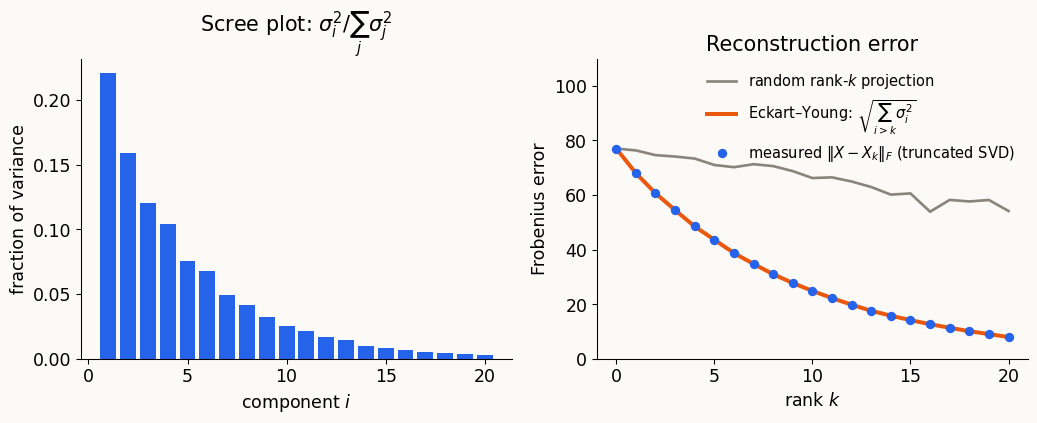
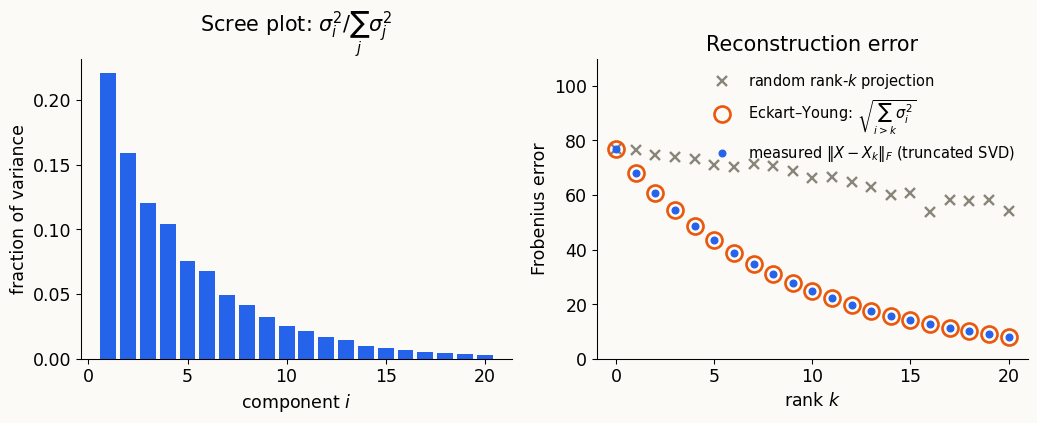
Remove Homework tab and page (no homework this offering)
Claude-Session: https://claude.ai/code/session_017t3ggjcAxN8CufDV5KXh5C

Changed region(s): [[0.5863, 0.3381, 0.9875, 0.8298], [0.6789, 0.2459, 0.7097, 0.3073], [0.6789, 0.1844, 0.7097, 0.2151]]

diff --git a/README.md b/README.md
@@ -10,11 +10,9 @@ _quarto.yml            site config (navbar, theme)
 index.qmd              home page: description, logistics, topics
 schedule.qmd           lecture-by-lecture schedule with links
 notes.qmd              auto-generated list of everything in notes/
-homework.qmd           problem sets
 resources.qmd          references, software
 lectures/lectureNN/    one folder per lecture: reveal.js deck (.qmd), theme, demos/
 notes/                 lecture notes and supplements (.qmd)
-homework/              problem sets (no solutions — this repo is public)
 exercises/             recommended exercises, linked from schedule.qmd (solutions kept locally, git-ignored)
 assets/site.scss       site colours and fonts
 _freeze/               stored results of Python cells (commit this)
